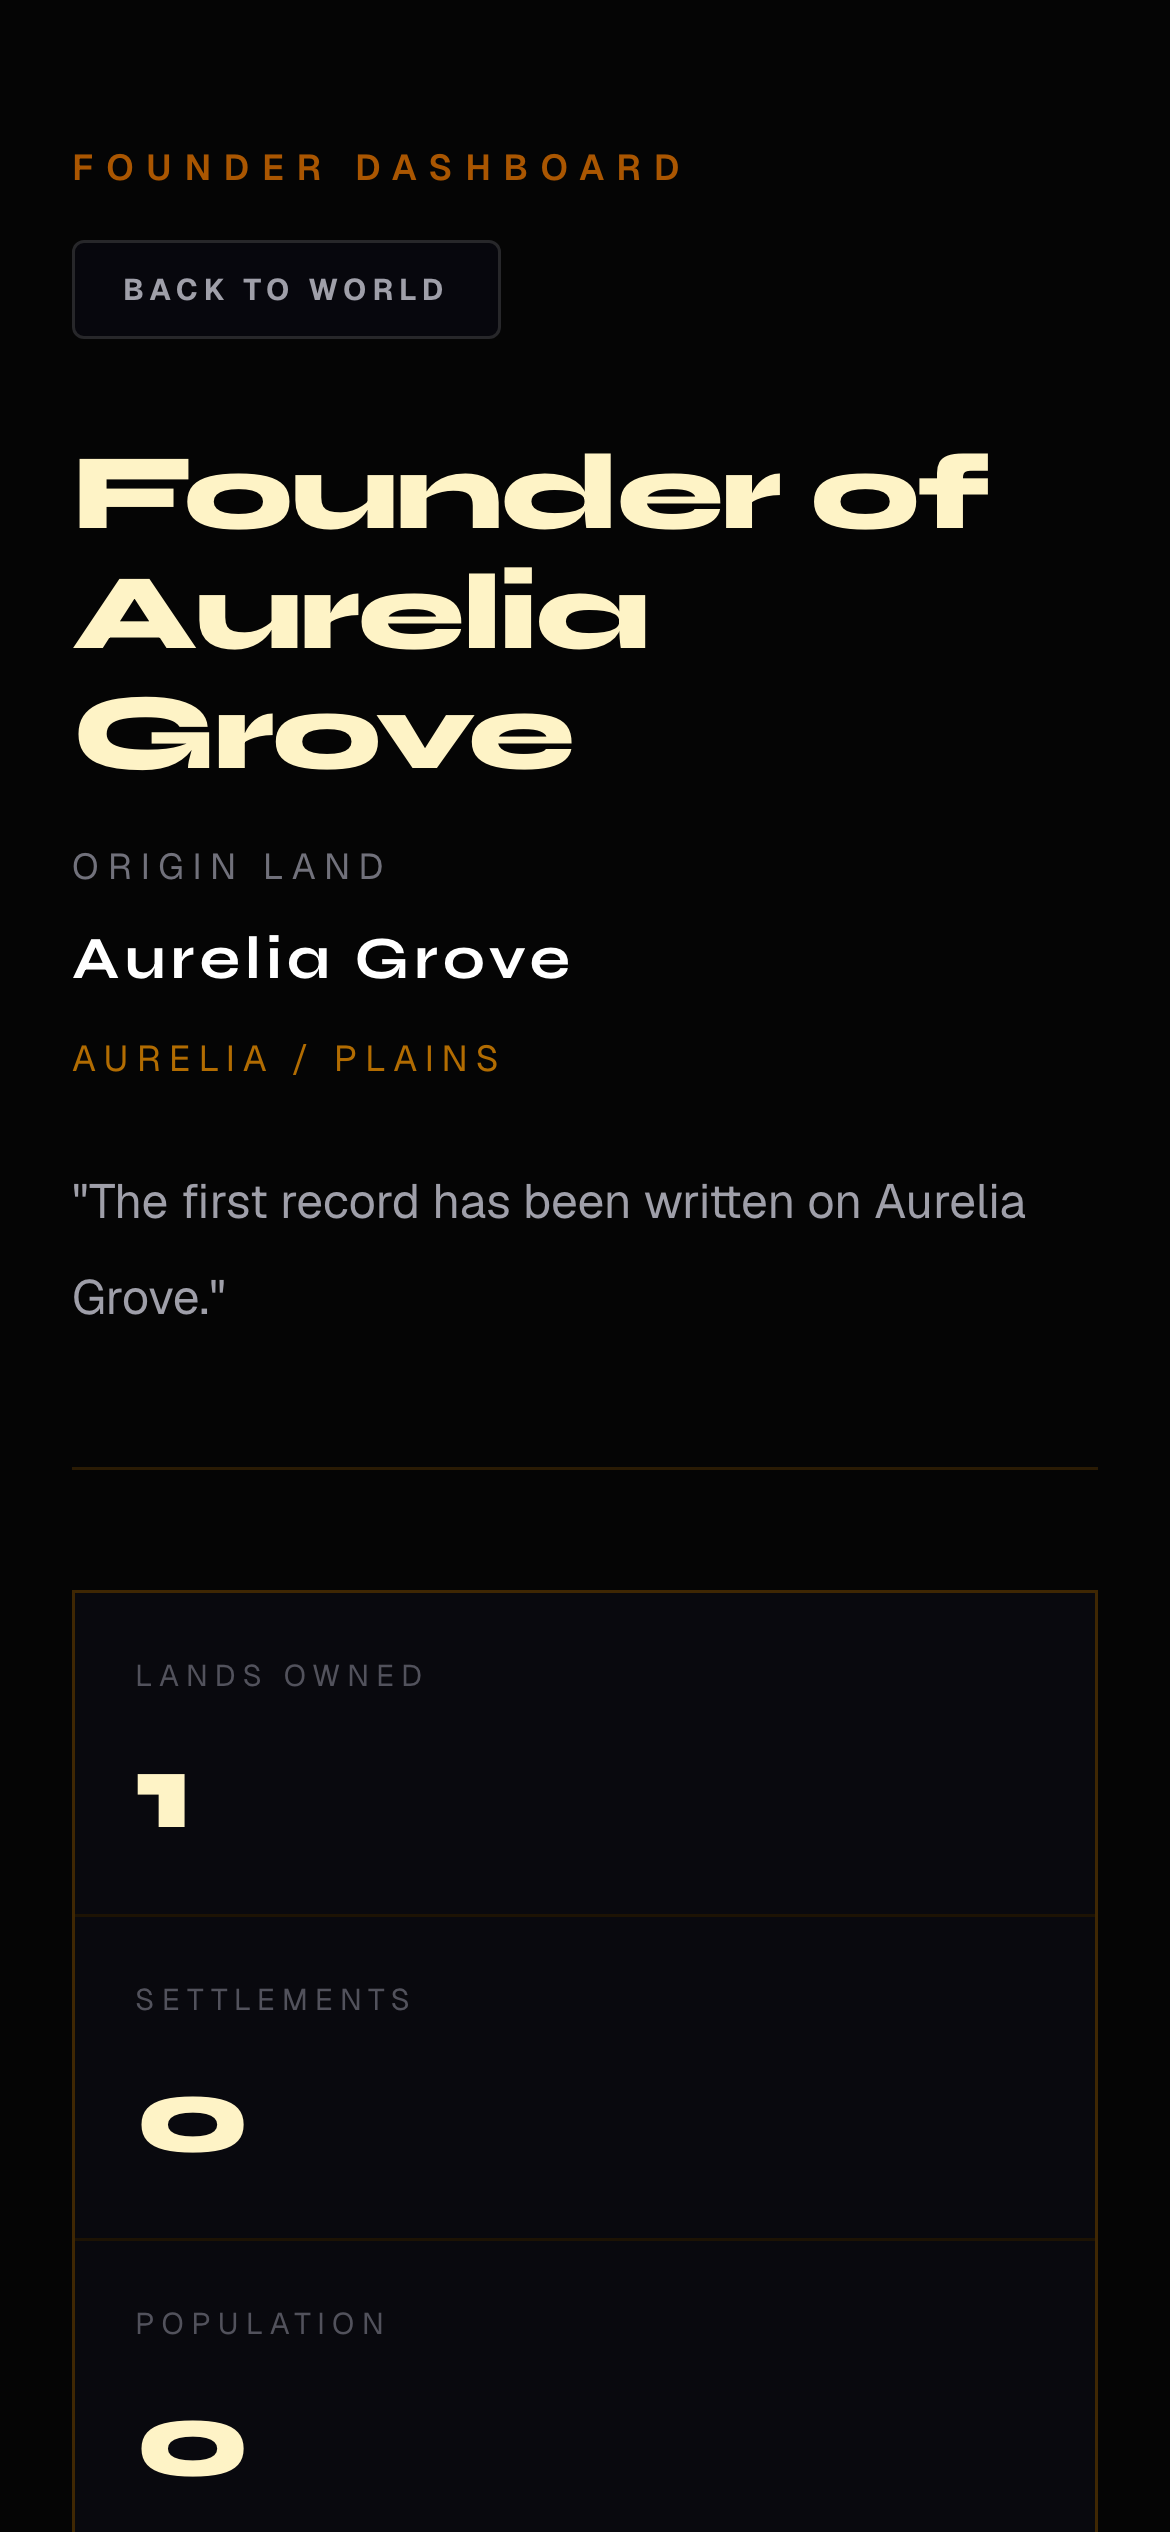
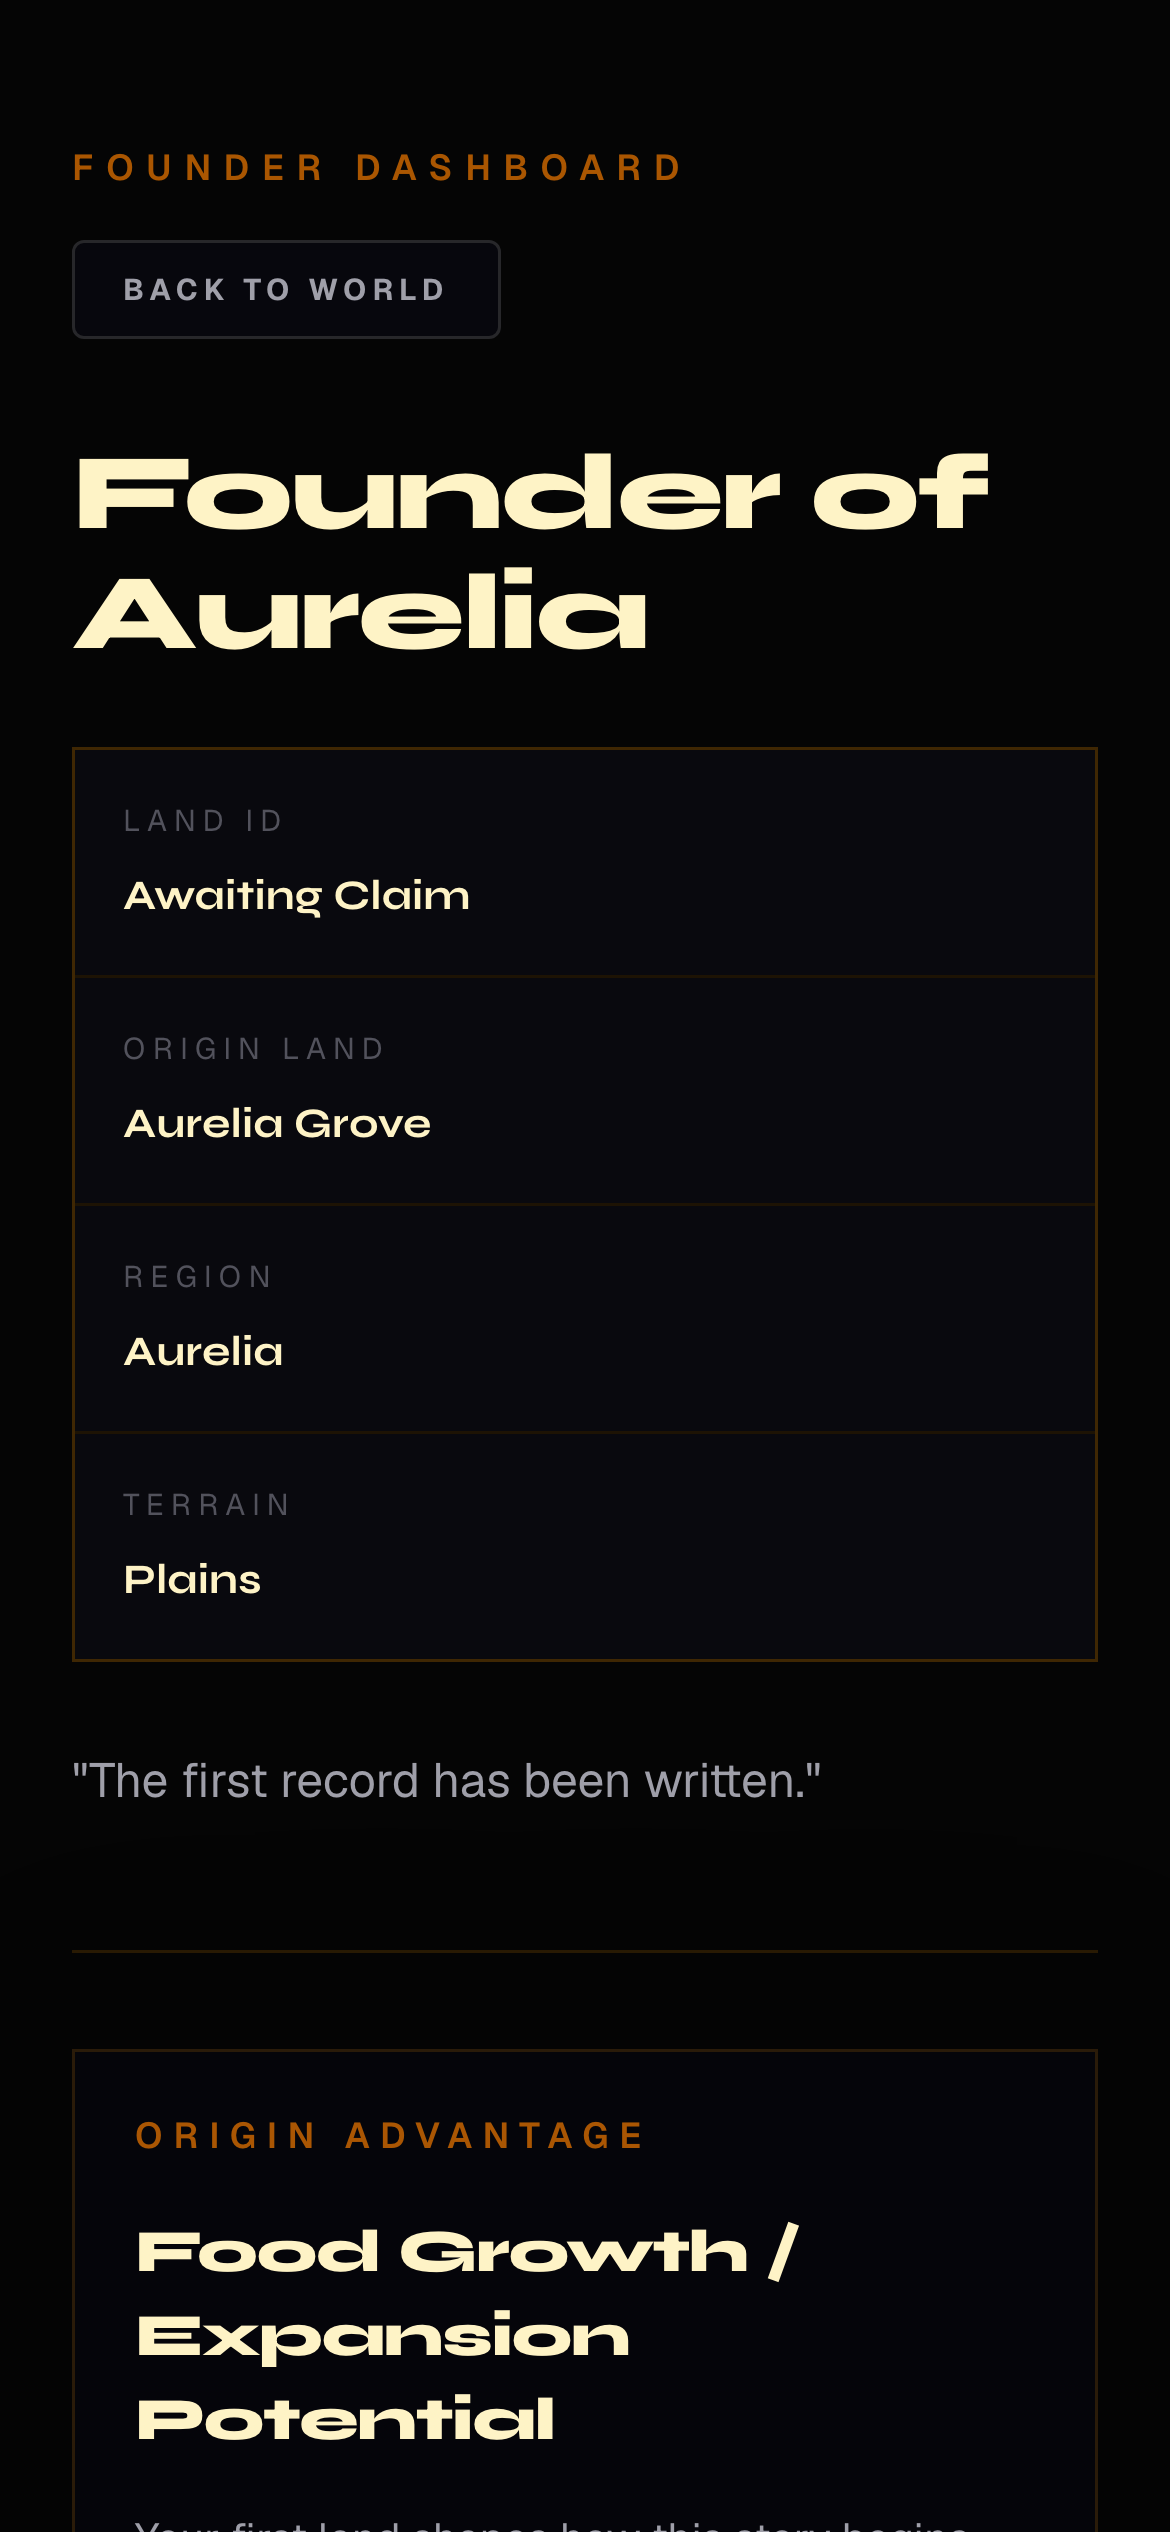
Make origin land visible across demo

diff --git a/app/dashboard/page.tsx b/app/dashboard/page.tsx
@@ -5,9 +5,11 @@ import { useRouter } from "next/navigation";
 import { useEffect, useMemo, useState } from "react";
 
 import {
+  formatLandClaimHistory,
   getClaimedLandDisplay,
-  getDashboardOriginQuote,
-  getFounderMeaningLine,
+  getDashboardHeroTitle,
+  getDashboardTerrainQuote,
+  getOriginAdvantageLine,
 } from "../lib/claimed-land";
 import { DEFAULT_SETTLEMENT_STATE, clearSettlementState, readSettlementState } from "../lib/settlement-state";
 
@@ -116,28 +118,20 @@ export default function DashboardPage() {
       };
 
   const claimedLand = useMemo(() => getClaimedLandDisplay(settlementState), [settlementState]);
-
-  const founderTitle = settlementState.empireFounded
-    ? settlementState.empireName || claimedLand.region
-    : settlementState.nationFounded
-      ? settlementState.nationName || claimedLand.region
-      : settlementState.settlementFounded
-        ? settlementState.settlementName || claimedLand.landName
-        : claimedLand.landName || claimedLand.region;
+  const heroTitle = useMemo(() => getDashboardHeroTitle(settlementState), [settlementState]);
+  const originQuote = getDashboardTerrainQuote(claimedLand.terrain, claimedLand.hasClaimedLand);
+  const originAdvantage = getOriginAdvantageLine(claimedLand.terrain);
 
   const territoryOverview = useMemo(
     () => [
-      { id: "land-name", label: "Land Name", value: claimedLand.landName },
+      { id: "land-name", label: "Origin Land", value: claimedLand.landName },
       { id: "coordinates", label: "Coordinates", value: claimedLand.coordinates },
       { id: "region", label: "Region", value: claimedLand.region },
       { id: "terrain", label: "Terrain", value: claimedLand.terrain },
       { id: "status", label: "Status", value: "Claimed" },
-      { id: "origin-trait", label: "Origin Trait", value: getFounderMeaningLine(claimedLand.terrain) },
     ],
     [claimedLand],
   );
-
-  const originQuote = getDashboardOriginQuote(claimedLand.landName, claimedLand.region);
 
   return (
     <main className="min-h-screen bg-[#050505] px-6 py-12 text-white sm:px-10 sm:py-16">
@@ -156,19 +150,39 @@ export default function DashboardPage() {
           </div>
 
           <h1 className="mt-8 break-words font-[family-name:var(--font-syne)] text-4xl font-extrabold tracking-tight text-amber-100 sm:text-5xl md:text-6xl">
-            {`Founder of ${founderTitle}`}
+            {`Founder of ${heroTitle}`}
           </h1>
-          <p className="mt-4 text-xs uppercase tracking-[0.24em] text-zinc-500">
-            Origin Land
-          </p>
-          <p className="mt-2 break-words font-[family-name:var(--font-syne)] text-xl font-bold tracking-[0.08em] text-white sm:text-2xl">
-            {claimedLand.landName}
-          </p>
-          <p className="mt-3 text-xs uppercase tracking-[0.22em] text-amber-500/70">
-            {claimedLand.region} / {claimedLand.terrain}
-          </p>
+
+          <div className="mt-6 grid gap-px border border-amber-500/15 bg-amber-500/10 sm:grid-cols-2 lg:grid-cols-4">
+            {[
+              ["Land ID", claimedLand.landId || "Awaiting Claim"],
+              ["Origin Land", claimedLand.landName],
+              ["Region", claimedLand.region],
+              ["Terrain", claimedLand.terrain],
+            ].map(([label, value]) => (
+              <div key={label} className="bg-[#08080f]/95 p-4 sm:p-5">
+                <p className="text-[10px] uppercase tracking-[0.24em] text-zinc-600">{label}</p>
+                <p className="mt-2 break-words font-[family-name:var(--font-syne)] text-sm font-bold text-amber-100 sm:text-base">
+                  {value}
+                </p>
+              </div>
+            ))}
+          </div>
+
           <p className="mt-6 text-base leading-8 text-zinc-400 sm:text-lg">{originQuote}</p>
         </header>
+
+        <section className="mt-8 border border-amber-500/15 bg-[#06060c]/85 p-5 shadow-[0_20px_90px_rgba(0,0,0,0.45)] sm:p-6">
+          <p className="text-xs font-semibold uppercase tracking-[0.3em] text-amber-600/75">
+            Origin Advantage
+          </p>
+          <p className="mt-4 font-[family-name:var(--font-syne)] text-xl font-extrabold tracking-tight text-amber-100 sm:text-2xl">
+            {originAdvantage}
+          </p>
+          <p className="mt-3 text-sm leading-7 text-zinc-400">
+            Your first land shapes how this story begins.
+          </p>
+        </section>
 
         <section className="mt-10 grid gap-px border border-amber-500/15 bg-amber-500/10 sm:grid-cols-2 lg:grid-cols-4">
           {founderStats.map((stat) => (
@@ -234,6 +248,23 @@ export default function DashboardPage() {
               {nextMilestone.cta}
             </Link>
           </div>
+        </section>
+
+        <section className="mt-10 border border-amber-500/15 bg-[#06060c]/85 p-6 shadow-[0_20px_90px_rgba(0,0,0,0.45)] sm:p-8">
+          <p className="text-xs font-semibold uppercase tracking-[0.3em] text-amber-600/75">Founder History</p>
+          <ul className="mt-6 space-y-3 text-sm leading-7 text-zinc-300">
+            {settlementState.claimedLand ? (
+              <li className="border-l border-amber-500/25 pl-4">{formatLandClaimHistory(settlementState)}</li>
+            ) : null}
+            {settlementState.founderBadgeEarned ? (
+              <li className="border-l border-amber-500/25 pl-4">Founder Badge earned</li>
+            ) : null}
+            {settlementState.settlementFounded ? (
+              <li className="border-l border-amber-500/25 pl-4">
+                {settlementState.settlementName || "First settlement"} founded
+              </li>
+            ) : null}
+          </ul>
         </section>
 
         <section className="mt-10 border border-amber-500/15 bg-[#06060c]/85 p-6 shadow-[0_20px_90px_rgba(0,0,0,0.45)] sm:p-8">

diff --git a/app/lib/claimed-land.ts b/app/lib/claimed-land.ts
@@ -13,24 +13,74 @@ export function getClaimedLandDisplay(state: SettlementState) {
     coordinates: state.claimedLandCoordinates || state.coordinates || FALLBACK_LAND.coordinates,
     region: state.claimedLandRegion || state.region || FALLBACK_LAND.region,
     terrain: state.claimedLandTerrain || FALLBACK_LAND.terrain,
+    landId: getClaimedLandIdDisplay(state.claimedLandId),
+    hasClaimedLand: Boolean(state.claimedLand && state.claimedLandName),
   };
+}
+
+export function getClaimedLandIdDisplay(claimedLandId?: string) {
+  if (!claimedLandId) return "";
+
+  const match = claimedLandId.match(/world-tile-(\d+)/);
+  if (match) return `PN-${String(401 + Number(match[1])).padStart(4, "0")}`;
+
+  return claimedLandId;
+}
+
+export function getDashboardHeroTitle(state: SettlementState) {
+  const land = getClaimedLandDisplay(state);
+
+  if (state.claimedLandName) {
+    return land.region ? `${land.landName}, ${land.region}` : land.landName;
+  }
+
+  if (state.empireFounded) return state.empireName || land.region;
+  if (state.nationFounded) return state.nationName || land.region;
+  if (state.settlementFounded) return state.settlementName || land.landName;
+
+  return land.region;
 }
 
 export function getOriginTrait(terrain: string) {
   const normalized = terrain.toLowerCase();
 
   const traits: Record<string, { trait: string; advantage: string }> = {
-    forest: { trait: "Timber Supply", advantage: "Growth" },
-    mountain: { trait: "Stone & Iron", advantage: "Defense" },
-    coast: { trait: "Trade Reach", advantage: "Routes" },
-    plains: { trait: "Food Growth", advantage: "Expansion" },
-    crownland: { trait: "Legitimacy", advantage: "Influence" },
-    crownlands: { trait: "Legitimacy", advantage: "Influence" },
-    ruins: { trait: "Ancient Record", advantage: "Legacy" },
+    forest: { trait: "Timber Supply", advantage: "Early Growth" },
+    mountain: { trait: "Stone & Iron", advantage: "Defensive Position" },
+    coast: { trait: "Trade Reach", advantage: "Route Access" },
+    plains: { trait: "Food Growth", advantage: "Expansion Potential" },
+    crownland: { trait: "Legitimacy", advantage: "Political Influence" },
+    crownlands: { trait: "Legitimacy", advantage: "Political Influence" },
+    ruins: { trait: "Ancient Record", advantage: "Legacy Value" },
     basin: { trait: "Fresh Water", advantage: "Settlement" },
   };
 
   return traits[normalized] ?? { trait: "Balanced Ground", advantage: "Growth" };
+}
+
+export function getDashboardTerrainQuote(terrain: string, hasClaimedLand: boolean) {
+  if (!hasClaimedLand) {
+    return '"The first record has been written."';
+  }
+
+  const normalized = terrain.toLowerCase();
+  const quotes: Record<string, string> = {
+    forest: '"The first banner rises between timber and shadow."',
+    mountain: '"The first banner rises beneath stone and iron."',
+    coast: '"The first banner rises where routes will begin."',
+    plains: '"The first banner rises across open fields."',
+    crownland: '"The first banner rises near the old seat of power."',
+    crownlands: '"The first banner rises near the old seat of power."',
+    ruins: '"The first banner rises where forgotten history waits."',
+    basin: '"The first banner rises where fresh water gathers."',
+  };
+
+  return quotes[normalized] ?? '"The first record has been written."';
+}
+
+export function getOriginAdvantageLine(terrain: string) {
+  const { trait, advantage } = getOriginTrait(terrain);
+  return `${trait} / ${advantage}`;
 }
 
 export function formatLandClaimHistory(state: SettlementState) {
@@ -38,9 +88,9 @@ export function formatLandClaimHistory(state: SettlementState) {
   return "Land claimed by You";
 }
 
-export function getDashboardOriginQuote(landName: string, region: string) {
-  if (landName) return `"The first record has been written on ${landName}."`;
-  return `"The first record has been written in ${region}."`;
+export function getEmpireHeroQuote(landName: string) {
+  if (landName) return `"From ${landName}, the first empire entered the history of the world."`;
+  return '"The first empire has entered the history of the world."';
 }
 
 export function getSettlementOriginQuote(terrain: string, region: string, landName: string) {
@@ -101,6 +151,5 @@ export function getEmpireOriginQuote(landName: string) {
 }
 
 export function getFounderMeaningLine(terrain: string) {
-  const { trait, advantage } = getOriginTrait(terrain);
-  return `${trait} / ${advantage}`;
+  return getOriginAdvantageLine(terrain);
 }

diff --git a/app/empire/page.tsx b/app/empire/page.tsx
@@ -7,7 +7,7 @@ import { useEffect, useMemo, useState } from "react";
 import {
   formatLandClaimHistory,
   getClaimedLandDisplay,
-  getEmpireOriginQuote,
+  getEmpireHeroQuote,
 } from "../lib/claimed-land";
 import { DEFAULT_SETTLEMENT_STATE, readSettlementState, type SettlementState } from "../lib/settlement-state";
 
@@ -67,10 +67,7 @@ export default function EmpirePage() {
             {empire.empireName}
           </h1>
           <p className="mt-6 text-base leading-8 text-zinc-400 sm:text-lg">
-            {getEmpireOriginQuote(claimedLand.landName)}
-          </p>
-          <p className="mt-3 text-sm leading-7 text-zinc-500">
-            Imperial history begins where {claimedLand.landName} was first claimed in {claimedLand.region}.
+            {getEmpireHeroQuote(state.claimedLandName ? claimedLand.landName : "")}
           </p>
 
           <div className="mt-8 grid gap-px border border-amber-500/15 bg-amber-500/10 sm:grid-cols-2 lg:grid-cols-5">

diff --git a/public/qa/latest/report.html b/public/qa/latest/report.html
@@ -27,7 +27,7 @@
     <header>
       <p class="eyebrow">Pixel Nations QA Report</p>
       <h1>Pixel Nations QA Report</h1>
-      <p>Generated: <code>2026-06-11T12:57:14.461Z</code></p>
+      <p>Generated: <code>2026-06-11T13:01:23.126Z</code></p>
       <p>App source: <code>existing local app</code></p>
     </header>
 
